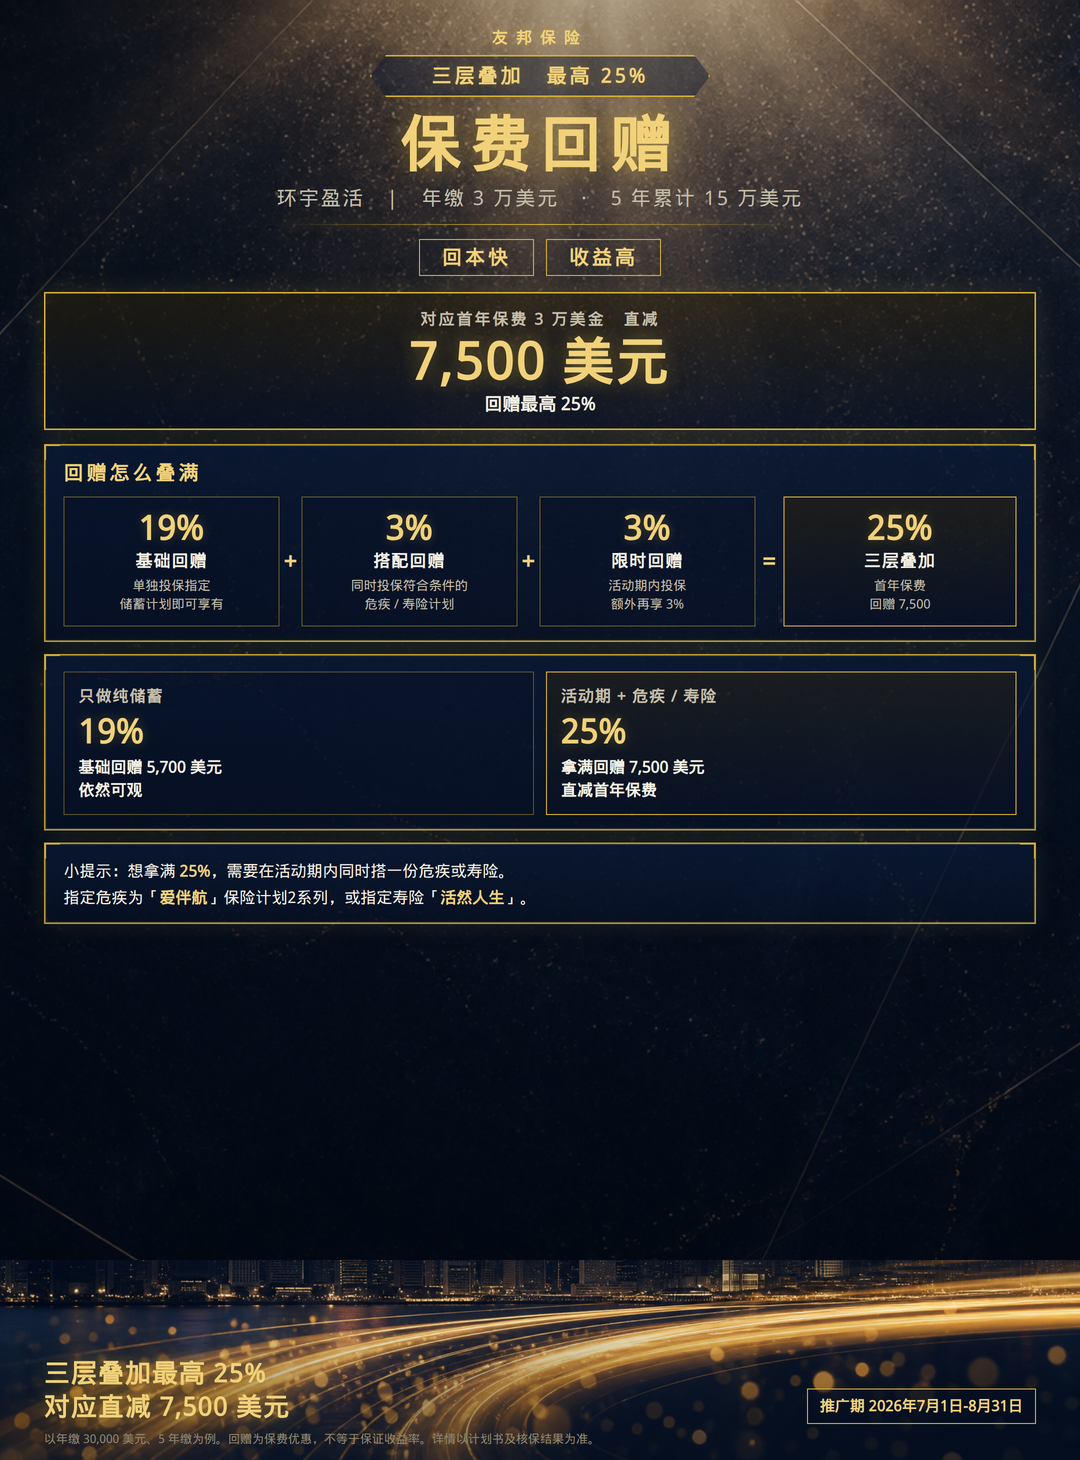
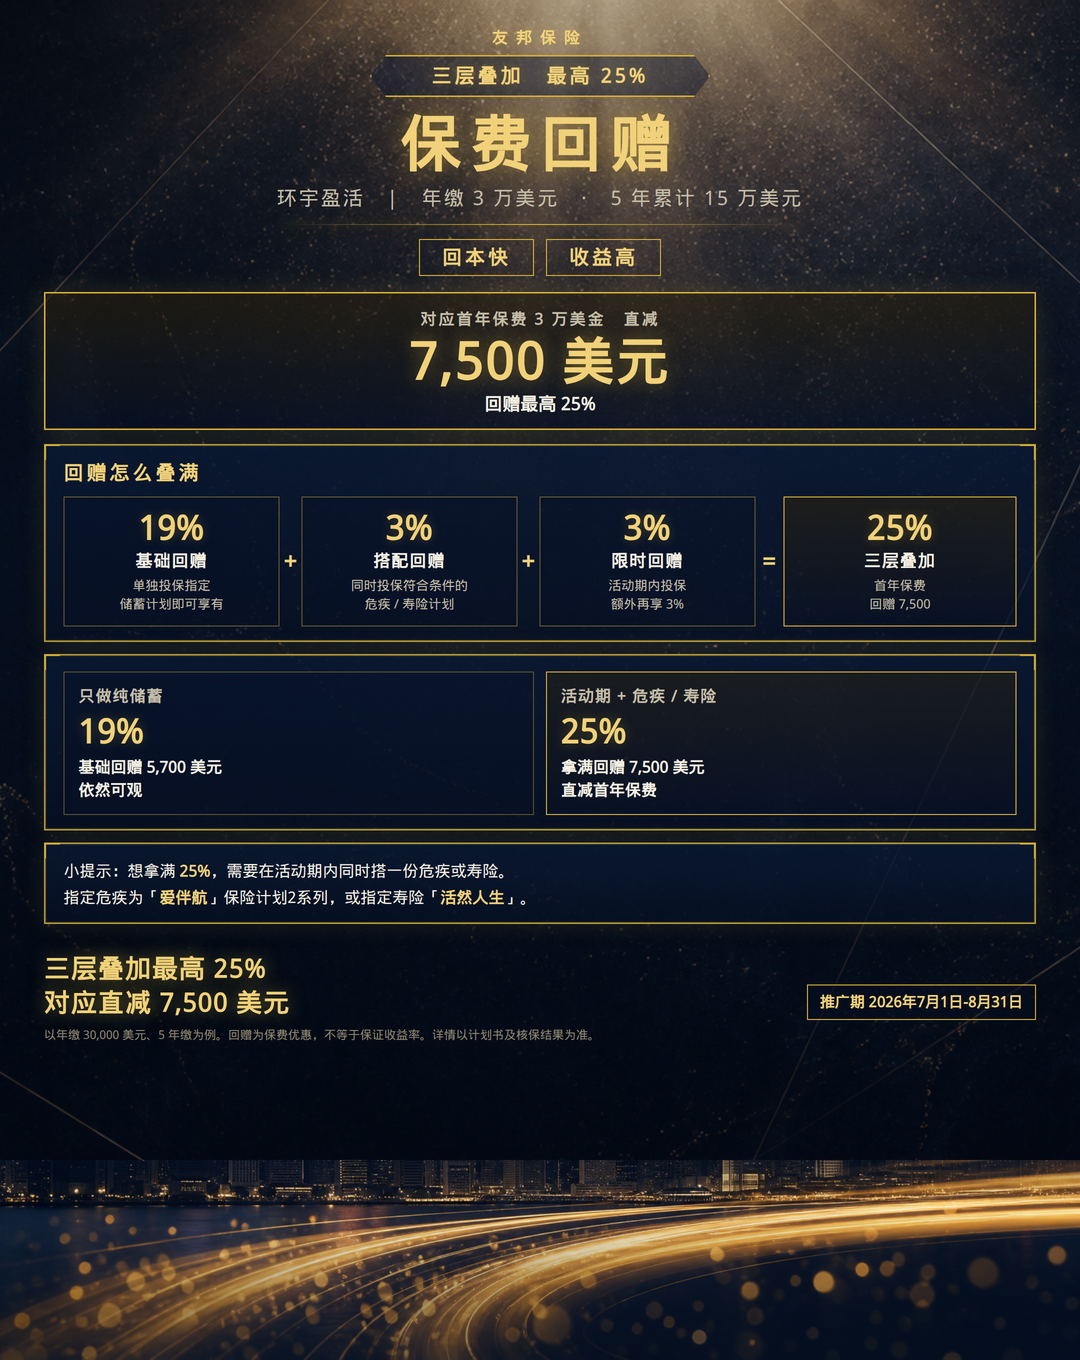
Remove leftover navy gap under poster content
Stop pinning the footer to the canvas bottom and shorten the flyers so the empty band between the last panel and the closing line is gone.

diff --git a/design/poster/rebate-prepay.html b/design/poster/rebate-prepay.html
@@ -18,7 +18,7 @@
 
     .poster {
       width: 1080px;
-      height: 1460px;
+      height: 1230px;
       position: relative;
       overflow: hidden;
       font-family: "WenQuanYi Micro Hei", "Noto Sans SC", sans-serif;
@@ -31,7 +31,7 @@
     .skyline {
       position: absolute;
       left: 0; right: 0; bottom: 0;
-      height: 188px;
+      height: 210px;
       background:
         linear-gradient(180deg, rgba(7,20,40,.28) 0%, rgba(7,20,40,0) 20%, rgba(7,20,40,.5) 100%),
         url("./assets/skyline-gold-trails.jpg") center bottom / cover no-repeat;
@@ -42,8 +42,8 @@
     .content {
       position: relative;
       z-index: 2;
-      height: 100%;
-      padding: 28px 44px 10px;
+      height: auto;
+      padding: 28px 44px 16px;
       display: flex;
       flex-direction: column;
       align-items: center;
@@ -320,7 +320,7 @@
 
     .foot {
       width: 100%;
-      margin-top: auto;
+      margin-top: 12px;
       padding-top: 4px;
       display: flex;
       align-items: flex-end;

diff --git a/design/poster/prepay-40.html b/design/poster/prepay-40.html
@@ -16,7 +16,7 @@
 
     .poster {
       width: 1080px;
-      height: 1460px;
+      height: 1360px;
       position: relative;
       overflow: hidden;
       font-family: "WenQuanYi Micro Hei", "Noto Sans SC", sans-serif;
@@ -33,8 +33,8 @@
       z-index: 1; pointer-events: none;
     }
     .content {
-      position: relative; z-index: 2; height: 100%;
-      padding: 28px 44px 12px;
+      position: relative; z-index: 2; height: auto;
+      padding: 28px 44px 16px;
       display: flex; flex-direction: column; align-items: center;
     }
     .brand {
@@ -170,7 +170,7 @@
     .explain b { color: var(--gold-2); }
 
     .foot {
-      width: 100%; margin-top: auto; padding-top: 4px;
+      width: 100%; margin-top: 12px; padding-top: 4px;
       display: flex; align-items: flex-end; justify-content: space-between; gap: 16px;
     }
     .foot-hl {

diff --git a/design/poster/rebate-25.html b/design/poster/rebate-25.html
@@ -16,7 +16,7 @@
 
     .poster {
       width: 1080px;
-      height: 1460px;
+      height: 1360px;
       position: relative;
       overflow: hidden;
       font-family: "WenQuanYi Micro Hei", "Noto Sans SC", sans-serif;
@@ -33,8 +33,8 @@
       z-index: 1; pointer-events: none;
     }
     .content {
-      position: relative; z-index: 2; height: 100%;
-      padding: 28px 44px 12px;
+      position: relative; z-index: 2; height: auto;
+      padding: 28px 44px 16px;
       display: flex; flex-direction: column; align-items: center;
     }
     .brand {
@@ -157,7 +157,7 @@
     .cond b { color: var(--gold-2); }
 
     .foot {
-      width: 100%; margin-top: auto; padding-top: 4px;
+      width: 100%; margin-top: 12px; padding-top: 4px;
       display: flex; align-items: flex-end; justify-content: space-between; gap: 16px;
     }
     .foot-hl {
